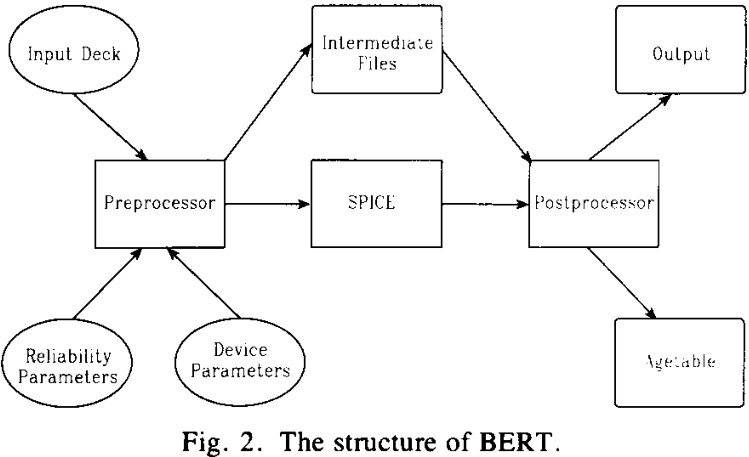
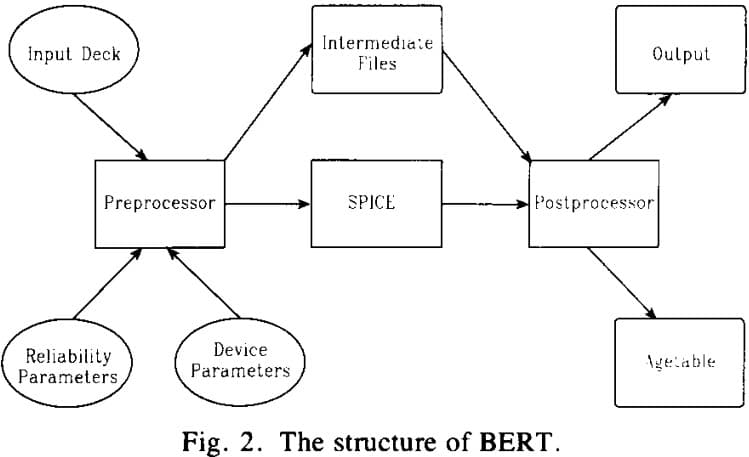
✍update images
更新文章封面、压缩部分jpg图片

diff --git a/_posts/2021-09-15-guangzhou-trip.md b/_posts/2021-09-15-guangzhou-trip.md
@@ -3,7 +3,7 @@ layout: post
 title: 广州旅游指南（多图预警）
 date: 2021-09-16 11:36:00 +0800
 category: document
-thumbnail: /assets/images/thumbnail/apple_jack.png
+thumbnail: /assets/images/trip/guangzhou/广州市区.jpg
 icon: note
 ---
 
@@ -29,7 +29,7 @@ icon: note
 
 冷知识：广州最好吃的雪糕是“五羊牌”雪糕。
 
-![](../assets/images/trip/guangzhou/广州市区.jpg)
+![](/assets/images/trip/guangzhou/广州市区.jpg)
 
 ### 行政划分
 

diff --git a/_posts/2021-09-07-hot-carriers-introduction.md b/_posts/2021-09-07-hot-carriers-introduction.md
@@ -3,7 +3,7 @@ layout: ppt
 title: (PPT)热载流子损伤效应
 date: 2021-09-07 09:32:00 +0800
 category: document
-thumbnail: /assets/images/thumbnail/twilight_sparkle.png
+thumbnail: /assets/images/hot-carrier/热载流子的产生.jpg
 icon: book
 excerpt: 简单介绍热载流子产生、注入、退化的机理
 ---

diff --git a/_posts/2021-10-18-threshold-voltage-extraion.md b/_posts/2021-10-18-threshold-voltage-extraion.md
@@ -3,7 +3,7 @@ layout: ppt
 title: (PPT)阈值电压的提取
 date: 2021-10-18 15:47:00 +0800
 category: document
-thumbnail: /assets/images/thumbnail/twilight_sparkle.png
+thumbnail: /assets/images/hot-carrier/仪器b1500a.jpg
 icon: book
 excerpt: 介绍多种提取阈值电压的方法
 ---

diff --git a/_posts/2021-10-08-hci-model.md b/_posts/2021-10-08-hci-model.md
@@ -3,7 +3,7 @@ layout: ppt
 title: (PPT)HCD建模
 date: 2021-10-08 14:00:00 +0800
 category: document
-thumbnail: /assets/images/thumbnail/twilight_sparkle.png
+thumbnail: /assets/images/hot-carrier/BERT结构.jpg
 icon: book
 excerpt: 简单介绍热载流子损伤模型
 ---

diff --git a/_posts/2021-09-04-叉烧.md b/_posts/2021-09-04-叉烧.md
@@ -3,7 +3,7 @@ layout: post
 title: 叉烧
 date: 2021-09-04 09:15:00 +0800
 category: document
-thumbnail: /assets/images/thumbnail/apple_jack.png
+thumbnail: /assets/images/food/2021-09-05-叉烧.jpeg
 icon: book
 ---
 
